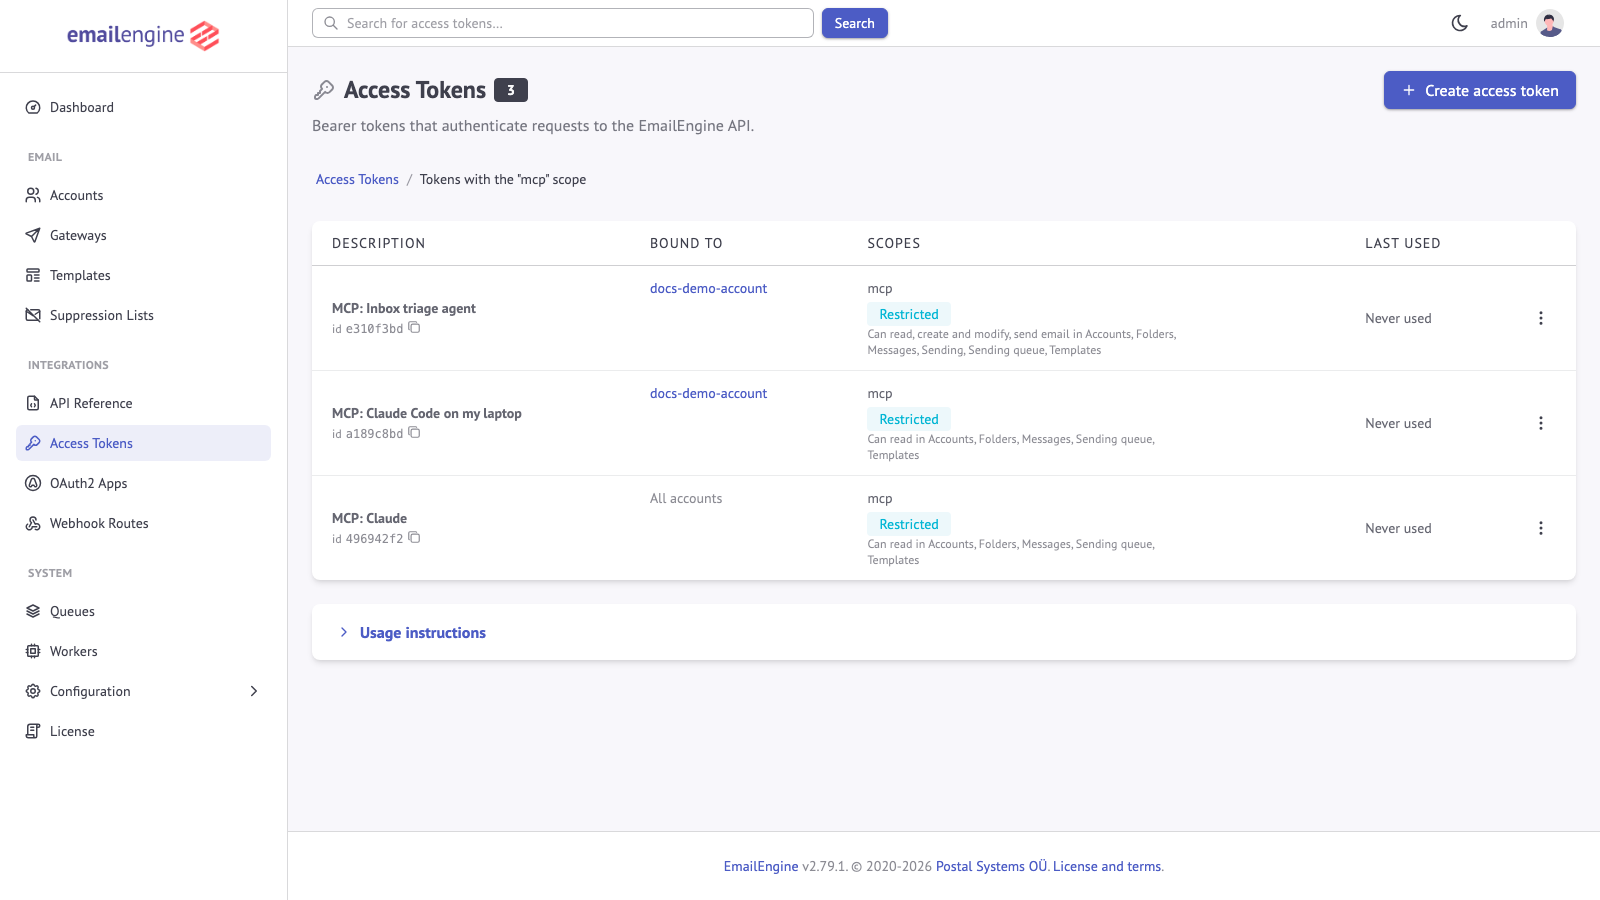
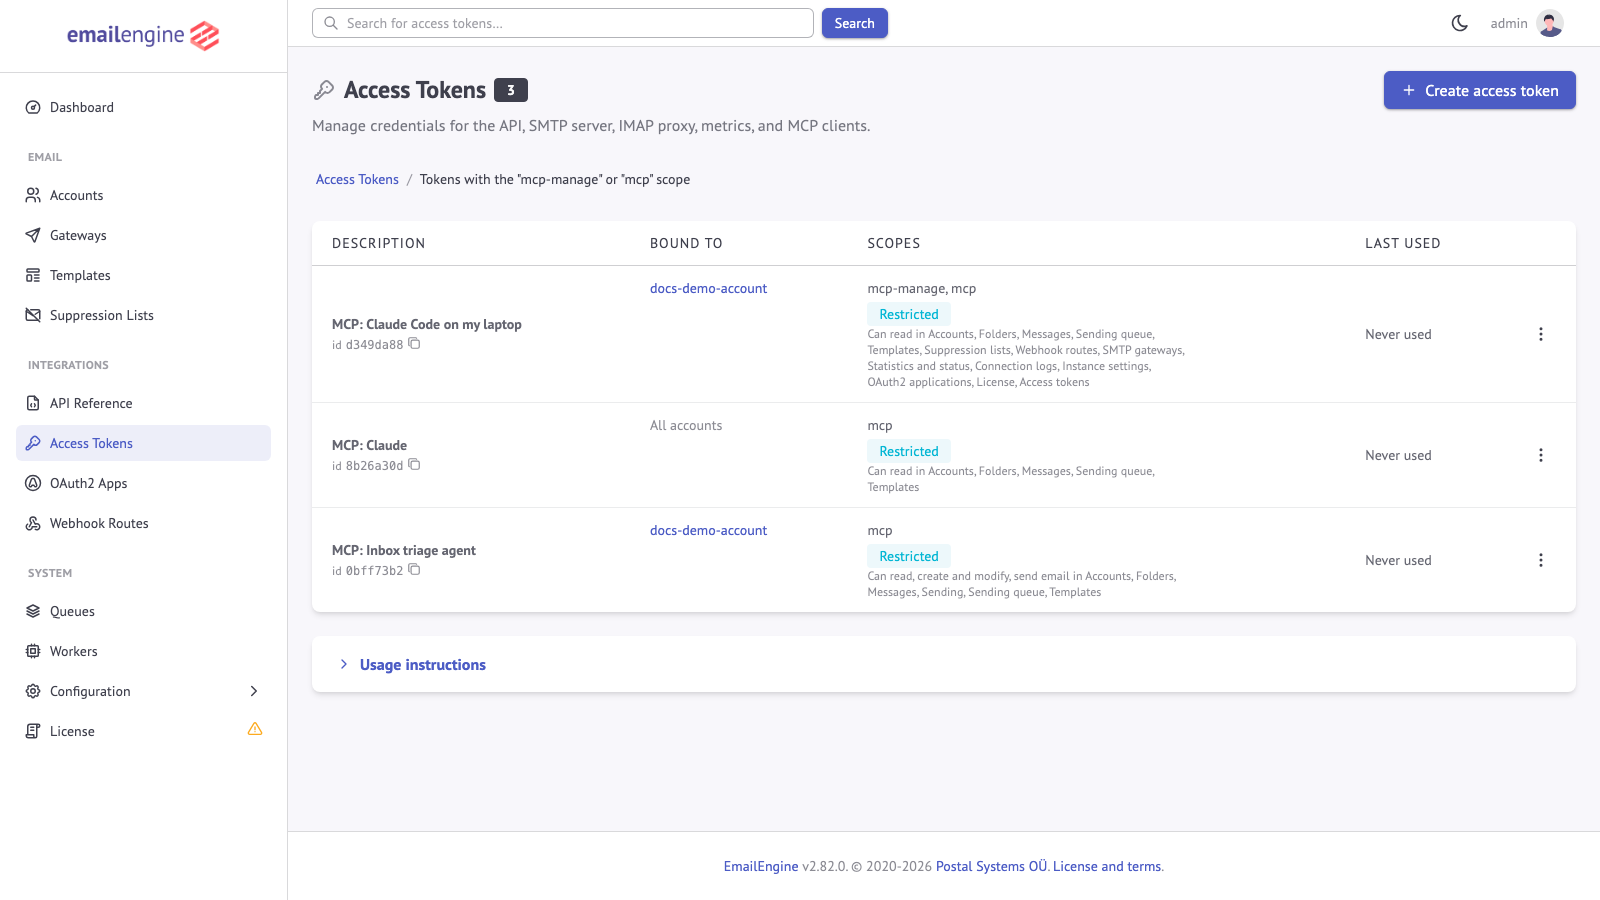
docs: refresh the MCP screenshots for 2.82.0
The August set showed the single-scope generator and consent form. The capture
script now drives the two-section controls and filters the token listing on
both MCP scopes.

diff --git a/scripts/capture-mcp-screenshots.js b/scripts/capture-mcp-screenshots.js
@@ -160,7 +160,7 @@ async function mintToken(page, payload) {
 // Every run mints tokens, so a second run would otherwise show the listing
 // growing a duplicate set of rows. Only mcp-scoped tokens are touched.
 async function clearMcpTokens(page) {
-    await page.goto(`${EE_URL}/admin/tokens?scope=mcp`, { waitUntil: 'load' });
+    await page.goto(`${EE_URL}/admin/tokens?scope=mcp-manage&scope=mcp`, { waitUntil: 'load' });
     const ids = await page.$$eval('.list-delete-btn[data-delete-id]', buttons => buttons.map(button => button.dataset.deleteId));
     if (!ids.length) {
         return;
@@ -230,7 +230,9 @@ async function captureConfigPage(page, account) {
     if (account) {
         await pickAccount(page, 'mcpGenAccount', account);
     }
-    await page.check('#mcpGenAccessread');
+    // Two sections since 2.80.1: instance management (defaults to Observe) and email
+    // access (defaults to none). The docs describe a read-only mail agent.
+    await page.check('#mcpGen_mail_read');
     await shot(page, 'mcp-connect-token.png', { fullPage: true });
 
     // 3. the same panel after generating a connection command
@@ -249,8 +251,8 @@ async function captureConfigPage(page, account) {
     await page.click('#mcp-connect-oauth-tab');
     await shot(page, 'mcp-connect-oauth.png', { scrollTo: 140 });
 
-    // 5. the tool catalog, expanded. Captured as the card alone: fifteen tools
-    // are taller than the viewport, and a full-page shot of the tab would be
+    // 5. the tool catalog, expanded. Captured as the card alone: the catalog
+    // is taller than the viewport, and a full-page shot of the tab would be
     // mostly the generator above it.
     await openDetails(page, 'Exposed tools');
     await shot(page, 'mcp-tools-catalog.png', { element: 'details:has(summary:text-matches("Exposed tools"))' });
@@ -320,7 +322,7 @@ async function captureTokenPages(page, account) {
         permissions: { actions: ['read'], groups: ['account', 'mailbox', 'message', 'outbox', 'template'] }
     });
 
-    await page.goto(`${EE_URL}/admin/tokens?scope=mcp`, { waitUntil: 'load' });
+    await page.goto(`${EE_URL}/admin/tokens?scope=mcp-manage&scope=mcp`, { waitUntil: 'load' });
     await shot(page, 'mcp-tokens-list.png');
 }
 

diff --git a/scripts/update-swagger.js b/scripts/update-swagger.js
@@ -17,9 +17,9 @@ const SWAGGER_URL = 'https://go.emailengine.app/swagger.json';
 const OUTPUT_PATH = path.join(__dirname, '..', 'sources', 'swagger.json');
 const MAX_REDIRECTS = 5;
 
-// Operations we do not document. The release spec is a superset of what a
-// running instance exposes, so it still carries Document Store endpoints that
-// require a deprecated feature to be enabled.
+// Operations we do not document. The Document Store endpoints left the
+// published spec in EmailEngine 2.82.0; the filter stays so that a release
+// which brings a deprecated tag back does not regenerate pages for it.
 const EXCLUDED_TAGS = ['Deprecated endpoints (Document Store)'];
 
 console.log('📥 Downloading swagger.json from EmailEngine...');
